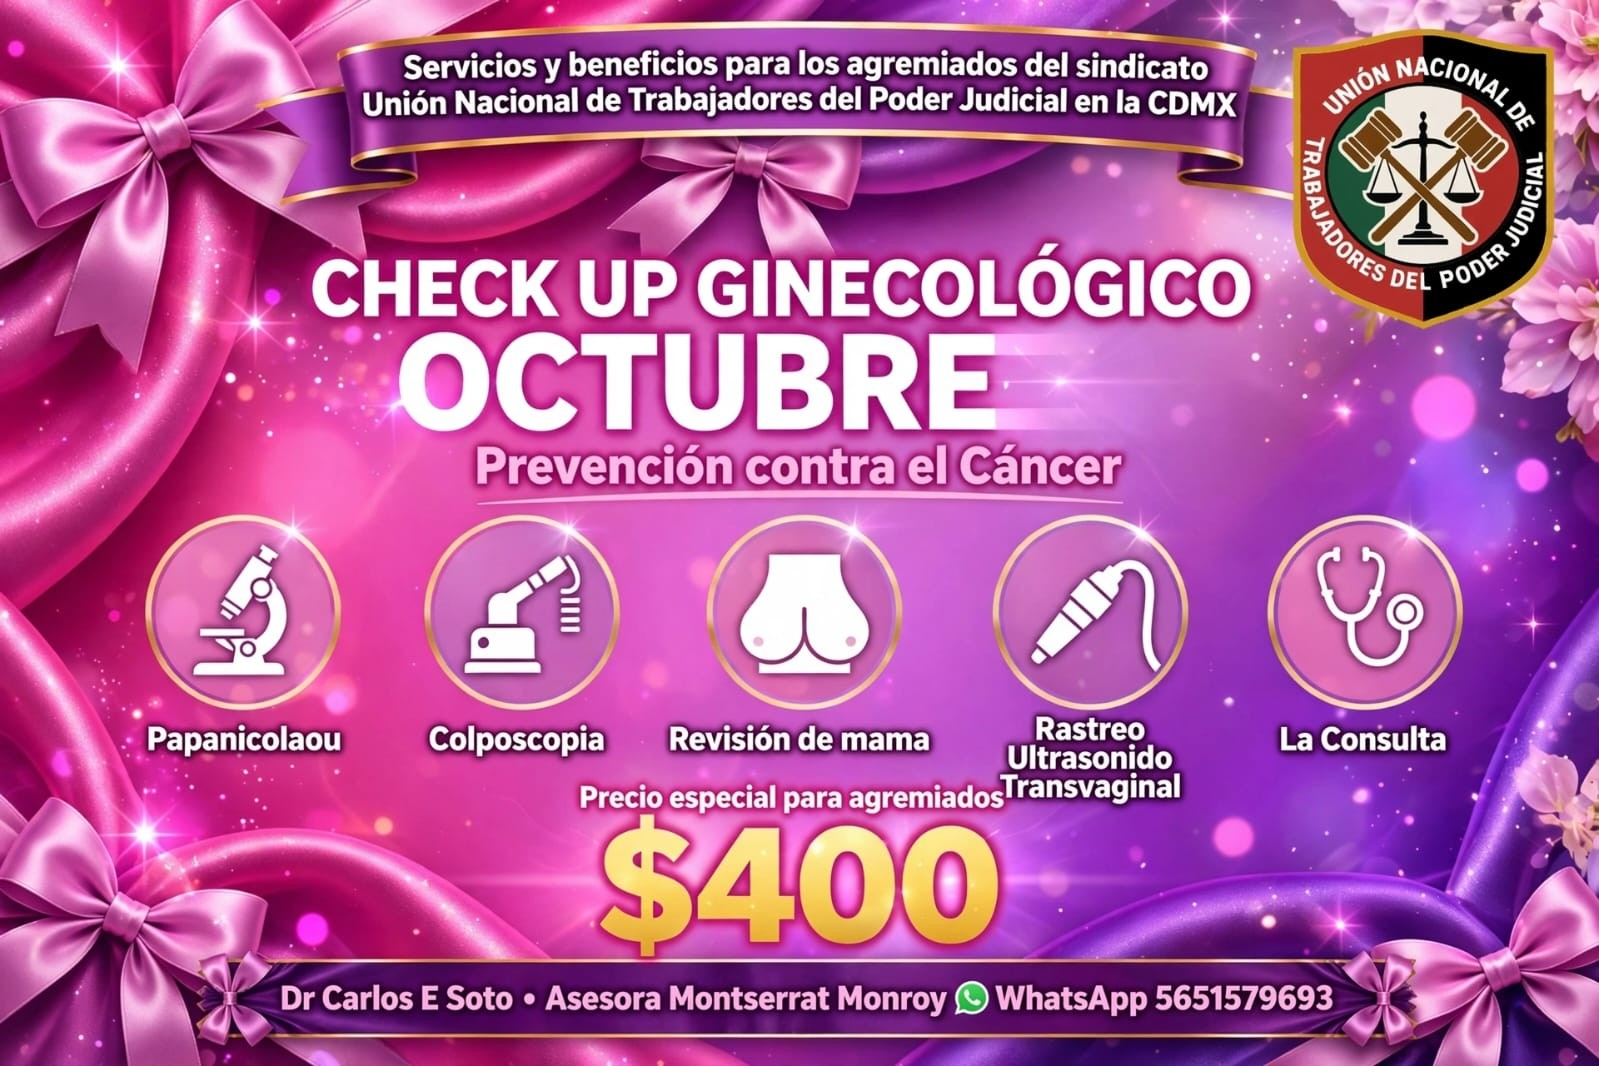
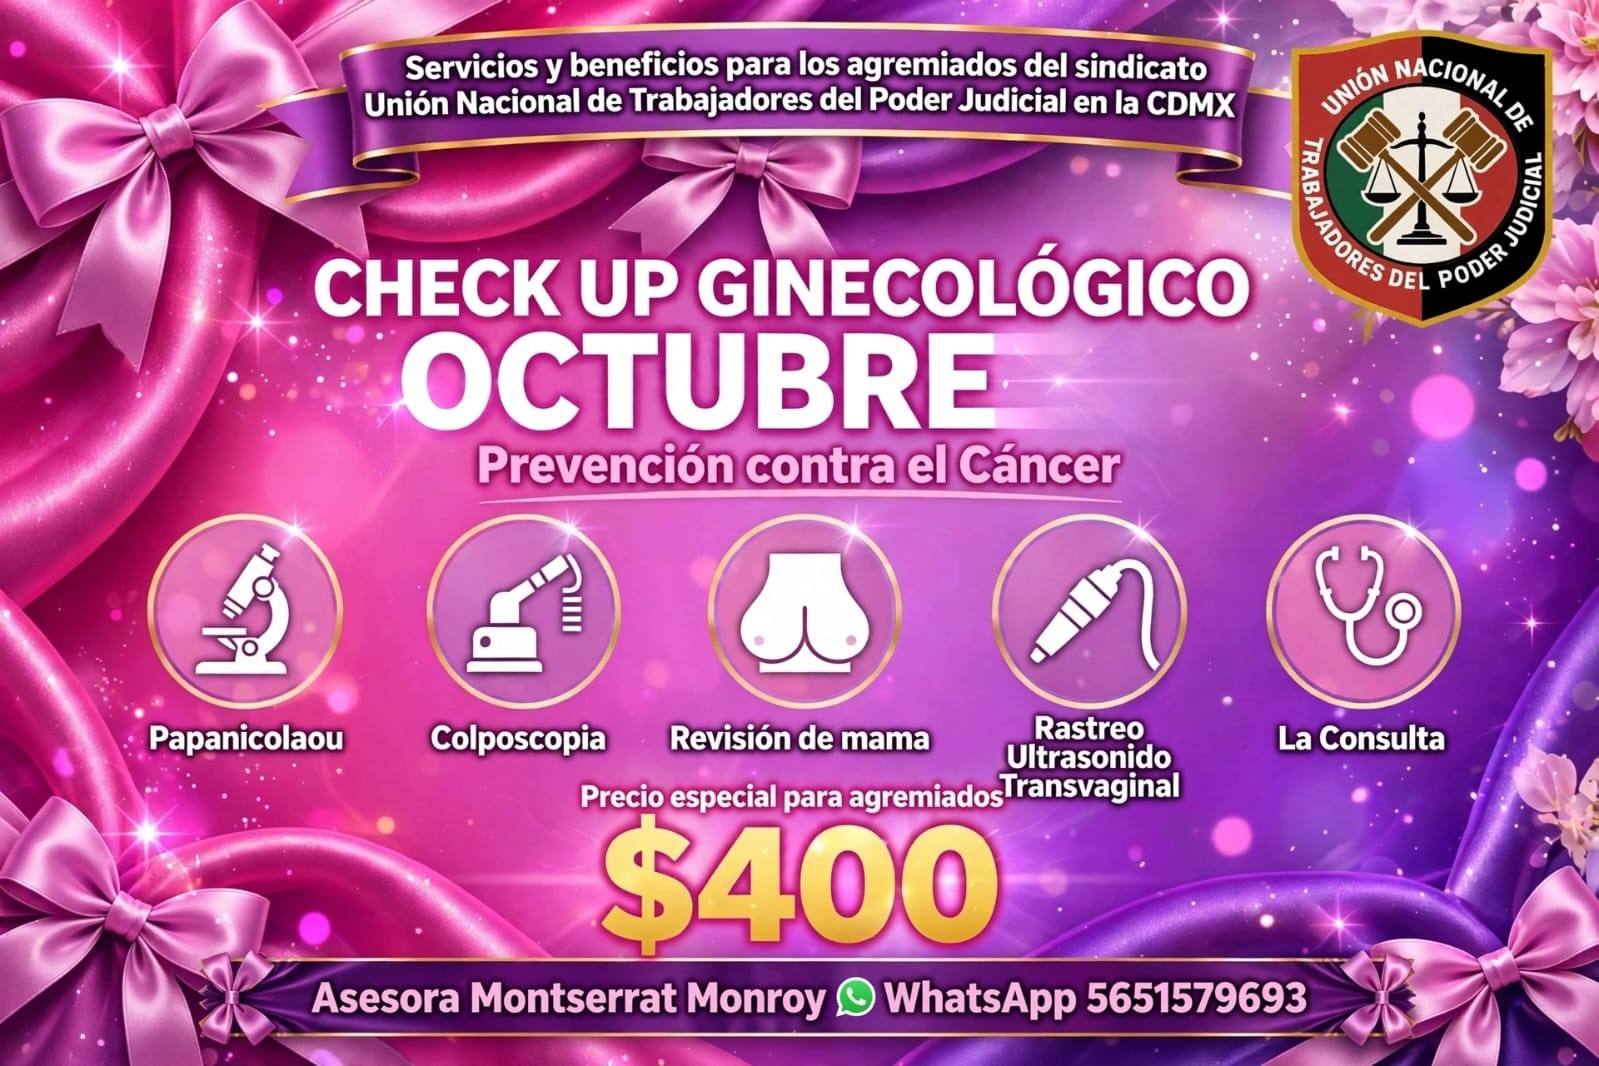
casncer de mama

diff --git a/src/components/site/Header.tsx b/src/components/site/Header.tsx
@@ -1,5 +1,5 @@
 import { Link } from "@tanstack/react-router";
-import { useState } from "react";
+import { useEffect, useState } from "react";
 import { Menu, X, Phone, ChevronDown } from "lucide-react";
 import { CONTACTO } from "@/lib/site-data";
 import logo from "@/assets/logo-untpj.png";
@@ -41,11 +41,65 @@ const NAV: NavItem[] = [
   { to: "/contacto", label: "Contacto" },
 ];
 
+// TODO: quitar este aviso después de octubre (mes de sensibilización sobre el
+// cáncer de mama). Se puede cerrar y recuerda la elección en este navegador.
+const CANCER_MAMA_DISMISS_KEY = "untpj-aviso-cancer-mama-2026";
+
+function CancerMamaBanner() {
+  const [visible, setVisible] = useState(false);
+
+  useEffect(() => {
+    const dismissed = window.localStorage.getItem(CANCER_MAMA_DISMISS_KEY);
+    if (!dismissed) setVisible(true);
+  }, []);
+
+  if (!visible) return null;
+
+  return (
+    <div className="bg-gradient-to-r from-pink-600 to-rose-500 text-white">
+      <div className="container-x flex items-center justify-between gap-3 py-2 text-[0.72rem]">
+        <Link
+          to="/beneficios"
+          hash="convenios"
+          className="flex min-w-0 items-center gap-2 font-semibold hover:underline"
+        >
+          <img
+            src={logo}
+            alt=""
+            aria-hidden="true"
+            className="size-4 shrink-0 rounded-sm object-contain"
+          />
+          <span aria-hidden="true">🎗</span>
+          <span className="hidden truncate sm:inline">
+            Octubre, mes de sensibilización sobre el cáncer de mama — conoce el convenio de Check
+            Up Ginecológico
+          </span>
+          <span className="truncate sm:hidden">
+            Octubre: prevención contra el cáncer de mama →
+          </span>
+        </Link>
+        <button
+          type="button"
+          onClick={() => {
+            window.localStorage.setItem(CANCER_MAMA_DISMISS_KEY, "1");
+            setVisible(false);
+          }}
+          aria-label="Cerrar aviso"
+          className="shrink-0 opacity-80 hover:opacity-100"
+        >
+          <X className="size-3.5" />
+        </button>
+      </div>
+    </div>
+  );
+}
+
 export function Header() {
   const [open, setOpen] = useState(false);
 
   return (
     <header className="sticky top-0 z-50">
+      <CancerMamaBanner />
       <div className="bg-ink text-ink-foreground">
         <div className="container-x flex flex-wrap items-center justify-between gap-2 py-2 text-[0.72rem]">
           <p className="text-ink-muted">

diff --git a/src/lib/site-data.ts b/src/lib/site-data.ts
@@ -524,6 +524,36 @@ export const CONVENIOS_DETALLE: Convenio[] = [
     contacto: "222 277 1695 · Calle Tepeyahualco No. 29, Col. La Paz, Puebla",
     imagen: "roxana-pinon-cheng",
   },
+  {
+    id: "arquetipo-seguro-medico",
+    nombre: "Arquetipo · Seguro de Gastos Médicos Menores (AXA | Keralty)",
+    categoria: "Salud y bienestar",
+    resumen:
+      "Protege tu bienestar y el de tu familia directa (pareja, hijos, nietos, padres, abuelos y hermanos) con un seguro de gastos médicos menores: check-up médico, consultas de medicina general ilimitadas, consultas con especialistas y servicio de ambulancia. Planes desde $144 mensuales, con 3, 6, 9 y 12 meses sin intereses en tarjetas participantes.",
+    descuento: "10% de descuento al contratar tu seguro",
+    contacto: "Asesor Edgar Echeverría · 55 1830 6698",
+    imagen: "arquetipo-seguro-medico",
+  },
+  {
+    id: "arquetipo-seguro-hogar",
+    nombre: "Arquetipo · Asegura tu Hogar",
+    categoria: "Hogar y servicios",
+    resumen:
+      "Protección para tu hogar contra incendios, desastres naturales y robo, además de asistencia para emergencias eléctricas, de plomería y pequeñas remodelaciones.",
+    descuento: "10% de descuento al contratar tu seguro",
+    contacto: "Asesor Edgar Echeverría · 55 1830 6698",
+    imagen: "arquetipo-seguro-hogar",
+  },
+  {
+    id: "arquetipo-seguro-mascotas",
+    nombre: "Arquetipo · Seguro de Mascotas",
+    categoria: "Mascotas",
+    resumen:
+      "Protege a tu perro o gato, sin importar su raza: reembolso por gastos veterinarios, protección por daños a terceros y asistencias para su cuidado.",
+    descuento: "10% de descuento al contratar tu seguro",
+    contacto: "Asesor Edgar Echeverría · 55 1830 6698",
+    imagen: "arquetipo-seguro-mascotas",
+  },
 ];
 
 /**

diff --git a/src/routes/beneficios.tsx b/src/routes/beneficios.tsx
@@ -30,6 +30,9 @@ import imgTerrazaCholula from "@/assets/convenio-terraza-cholula.jpg";
 import imgDafneEvents from "@/assets/convenio-dafne-events.jpg";
 import imgXpressTintoreria from "@/assets/convenio-xpress-tintoreria.jpg";
 import imgRoxanaPinonCheng from "@/assets/convenio-roxana-pinon-cheng.jpg";
+import imgArquetipoSeguroMedico from "@/assets/convenio-arquetipo-seguro-medico.jpg";
+import imgArquetipoSeguroHogar from "@/assets/convenio-arquetipo-seguro-hogar.jpg";
+import imgArquetipoSeguroMascotas from "@/assets/convenio-arquetipo-seguro-mascotas.jpg";
 import guiaEstudioImg from "@/assets/guia-de-estudio.jpg";
 import beneficiosHeroImg from "@/assets/beneficios-escritorio.jpg";
 
@@ -60,6 +63,9 @@ const IMAGENES: Record<string, string> = {
   "dafne-events": imgDafneEvents,
   "xpress-tintoreria": imgXpressTintoreria,
   "roxana-pinon-cheng": imgRoxanaPinonCheng,
+  "arquetipo-seguro-medico": imgArquetipoSeguroMedico,
+  "arquetipo-seguro-hogar": imgArquetipoSeguroHogar,
+  "arquetipo-seguro-mascotas": imgArquetipoSeguroMascotas,
 };
 
 export const Route = createFileRoute("/beneficios")({
